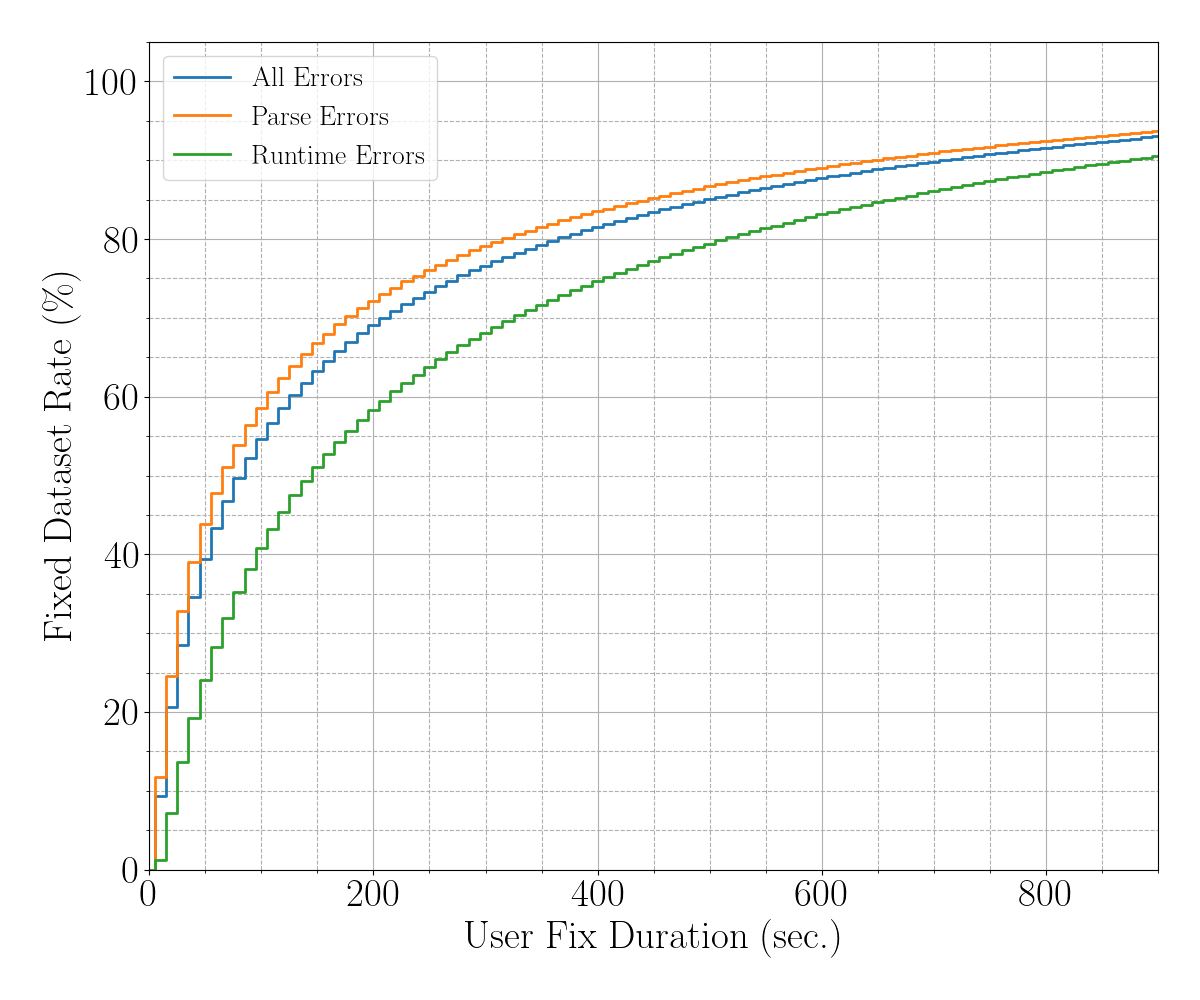
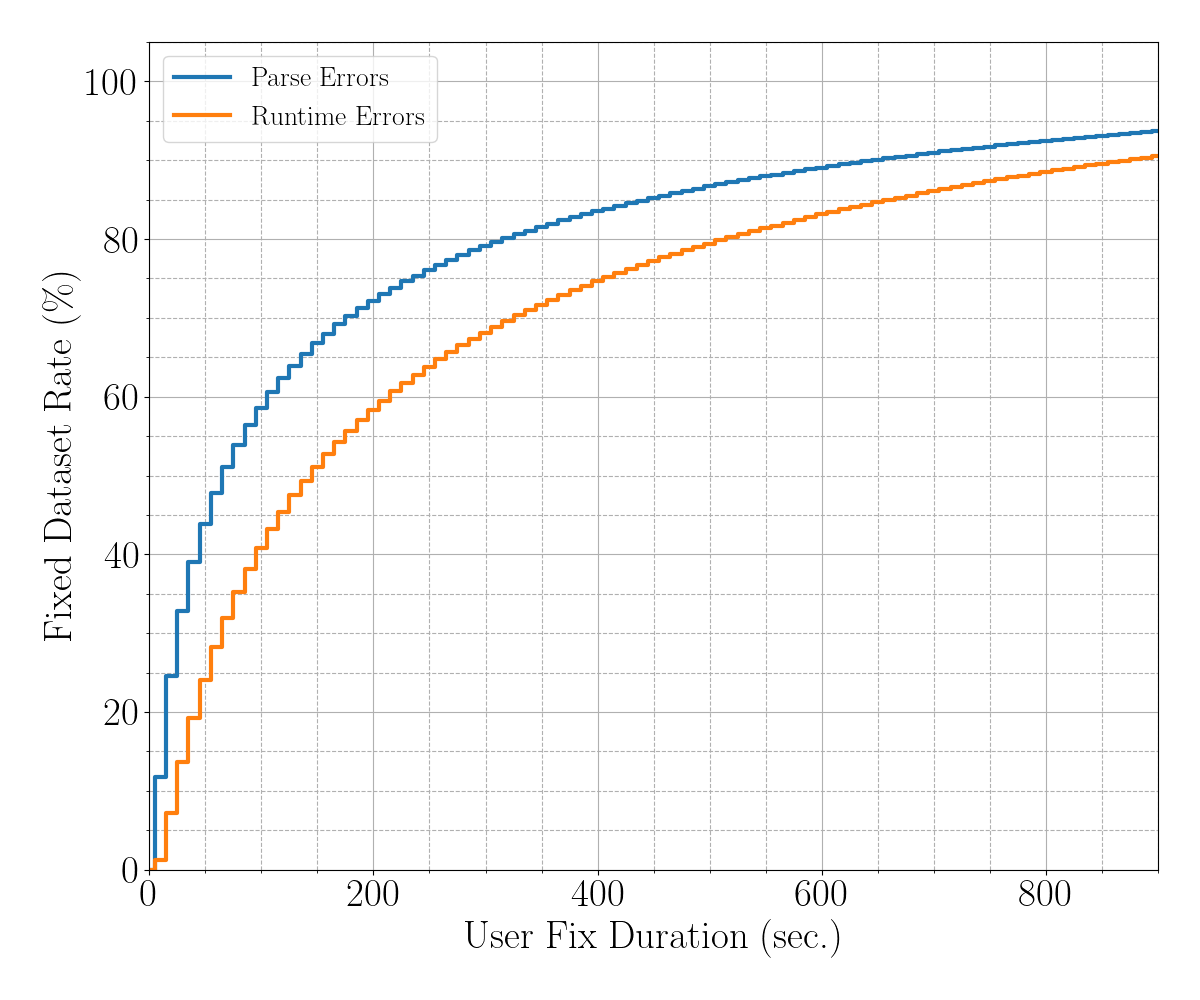
Updated Python data analysis section

diff --git a/paper/oopsla22-submission/error-correcting-parser.tex b/paper/oopsla22-submission/error-correcting-parser.tex
@@ -25,63 +25,89 @@ Parse errors (or \emph{Syntax Errors}) are usually easier to locate and be
 repaired than other algorithmic or runtime errors most of the times
 \citep{Denny_2012}. For example, the \emph{Python parser} will immediately
 inform the programmer for missing parenthesis in function argument lists or for
-not having the proper indents in a statement block. However, we show here that
-programmers (especially novices) mostly deal with these kinds of errors on a
-daily basis and still spend a considerable amount of time fixing them.
+not having the proper indents in a statement block. However, in this section we
+show that programmers (especially novices) mostly deal with these kinds of
+errors on a daily basis and spend a considerable amount of time fixing them.
 
 \mypara{Python Syntax Errors}
-We have collected a dataset of more than 800,000 erroneous Python programs along
-with their fixes from a web-based Python compiler, where novices programmers
-(mostly novices) can submit their code online and execute it. When there is an
-error, the failed attempt is recorded and associated with the next successful
-run of the same fixed code. This process generates a dataset of program pairs.
+We have collected a dataset of more than 1,000,000 erroneous Python programs
+along with their fixes from a web-based Python compiler called
+PythonTutor.com~\citep{Guo2013}, where novices programmers (mostly novices) can
+submit their code online and execute it. When there is an error, the failed
+attempt is recorded and associated with the next successful run of the same
+fixed code. This process generates a dataset of program pairs.
 
-By analyzing this data, we observe in \autoref{fig:error-statistics} that $72.79
+By analyzing this data, we observe in \autoref{fig:error-statistics} that $77.4
 \% $ of all faulty programs failed with a syntax error. This accounts for the
 vast majority of the errors that (novice) programmers face with their programs.
 This is a strong indication that these parse errors are very common and require
 an automated approach of repairing.
 
-\mypara{Python Repair Rate} The web-based compiler that we used to generate our
-dataset, also provides us with a \emph{server timestamp}. The timestamp is
-associated with each program attempt submission, erroneous or not. The
-\emph{repair time} of an erroneous program is calculated by taking the
-difference of the two timestamps of the erroneous and fixed program. Although
-this method is not the most accurate, it can still be viewed as an appropriate
-metric of the amount of time it took the programmer to repair the errors in
-their program when we have such a large dataset.
+\mypara{Python Repair Rate}
+The web-based compiler that we used to generate our dataset, also provides us
+with a \emph{server timestamp}. The timestamp is associated with each program
+attempt submission, erroneous or not. The \emph{repair time} of an erroneous
+program is calculated by taking the difference of the two timestamps of the
+erroneous and fixed program. This method is not the most accurate, since there
+are various reasons these timings are exaggerated, \eg users stepping away from
+the computer, internet lag \etc. However, without loss of generality, due to the
+large dataset of program repairs these timings can still be viewed as an
+appropriate metric of the amount of time it took the programmer to repair the
+errors in their program.
 
 We plot in \autoref{fig:repair-rate} the \emph{programmer repair rate}, \ie the
 dataset percentage that is repaired under a given amount of time. We include the
 repair rate for all the errors, the parse/syntax errors and the rest of the
 errors mentioned here as \emph{runtime} errors. As expected, the parse errors
 are fixed faster than all the other ones, but not by a large difference. We
-observe for example that within 2 minutes, usually $42 \%$ of the runtime
+observe for example that within 2 minutes, usually $46\%$ of the runtime
 errors, \ie all the errors that do not include the syntax errors, are repaired
-and around $65 \%$ of the syntax error. Although, this is a considerable
+and around $63\%$ of the syntax error. Although, this is a considerable
 difference, we observe that there is still a large number of the "simpler" parse
 errors that required more than 2 minutes to be fixed. We also observe that only
-$50 \%$ of the parse errors are fixed under 1 minute. Therefore, an automated
+$48\%$ of the parse errors are fixed under 1 minute. Therefore, an automated
 tool that repairs or parses those programs in a few seconds could be beneficial
 for a lot of programmers, novices or not.
 
 \begin{figure}[t]
   \centering
-  \includegraphics[width=0.7\linewidth]{median-repair-times.pdf}
-  \caption{The average number of token changes between the erroneous and fixed
-  program under the time the user needed to fix the program.}
-  \label{fig:token-changes}
+  \begin{minipage}[c]{0.49\linewidth}
+    \centering
+    \includegraphics[width=\linewidth]{dataset-ratio-per-change.pdf}
+    \caption{The Python dataset ratio that is fixed with the number of token
+     changes needed to fix the erroneous program.}
+    \label{fig:token-changes-ratio}
+  \end{minipage}
+  \begin{minipage}[c]{0.5\linewidth}
+      \centering
+      \includegraphics[width=\linewidth]{median-repair-times.pdf}
+      \caption{The average time the user needed to fix the erroneous program
+      under the number of token changes needed to make.}
+      \label{fig:token-changes}
+  \end{minipage}
 \end{figure}
 
-\mypara{Token-level changes} \autoref{fig:token-changes} shows how many token
-changes are required to get the parse errors fixed in a given program on average
-under that time. As expected, with an increasing number of changes needed at
-program to fix all parse errors, more time is needed for the programmers to make
-those changes. Additionally, the median token-level changes needed in the lexed
-programs (\eg \emph{type diff}) to fix a runtime error is 24 token changes on
-average (median is 8), while in order to fix a program with parse errors it
-requires 10 token changes on average (median is 3). This results further
-indicates that, while simple parse errors can easily and quickly be fixed by the
-programmers and the Python parser messages can be enough, they still struggle
-fixing programs that have more parse errors that maybe the error message doesn't
-even point to.
+\mypara{Token-level changes}
+The average token-level changes needed to fix a program with syntax errors, \ie
+the number of changes in the lexed token sequence, is \emph{10.7 token changes},
+while the \emph{median is 4}. A variable rename or a different integer is not
+considered a change as they won't affect the syntax error fix. As shown in
+\autoref{fig:token-changes-ratio}, $14.1\%$ of dataset needs only one token
+change, $23.2\%$ needs two token changes, $7.0\%$ needs three and $9.0\%$ needs
+four, \ie $53.3\%$ of the dataset needs at most 4 token changes to be fixed.
+This shows that the majority of the syntax errors can be fixed with only a few
+changes in their token sequences. But it is also important to see how long it
+takes the users on average to make those changes.
+
+\autoref{fig:token-changes} shows the average time that it takes a user to fix
+their programs with syntax errors per the number of token-level changes in their
+programs. As expected, with an increasing number of changes needed at program to
+fix all parse errors, more time is needed for the programmers to make those
+changes. Most importantly, even for one or two token changes the average user
+spends 25.8 and 24.7 sec respectively, which is still a considerable amount of
+time for these simple and short fixes.
+
+These results further indicate that, while simple syntax errors can easily and
+quickly be fixed by the programmers and the compiler error messages can be
+helpful, programmers still struggle fixing programs that have more syntax
+errors, that maybe the error message doesn't even point to.

diff --git a/paper/oopsla22-submission/evaluation.tex b/paper/oopsla22-submission/evaluation.tex
@@ -197,7 +197,7 @@ result, if we also consider the higher total parse accuracy of 91.57\%.
   fix in more than 1 out 3 of the cases}.
 \end{framed}
 
-\subsection{RQ2: Efficiency}
+\subsection{RQ3: Efficiency}
 \label{sec:eval:efficiency}
 
 
